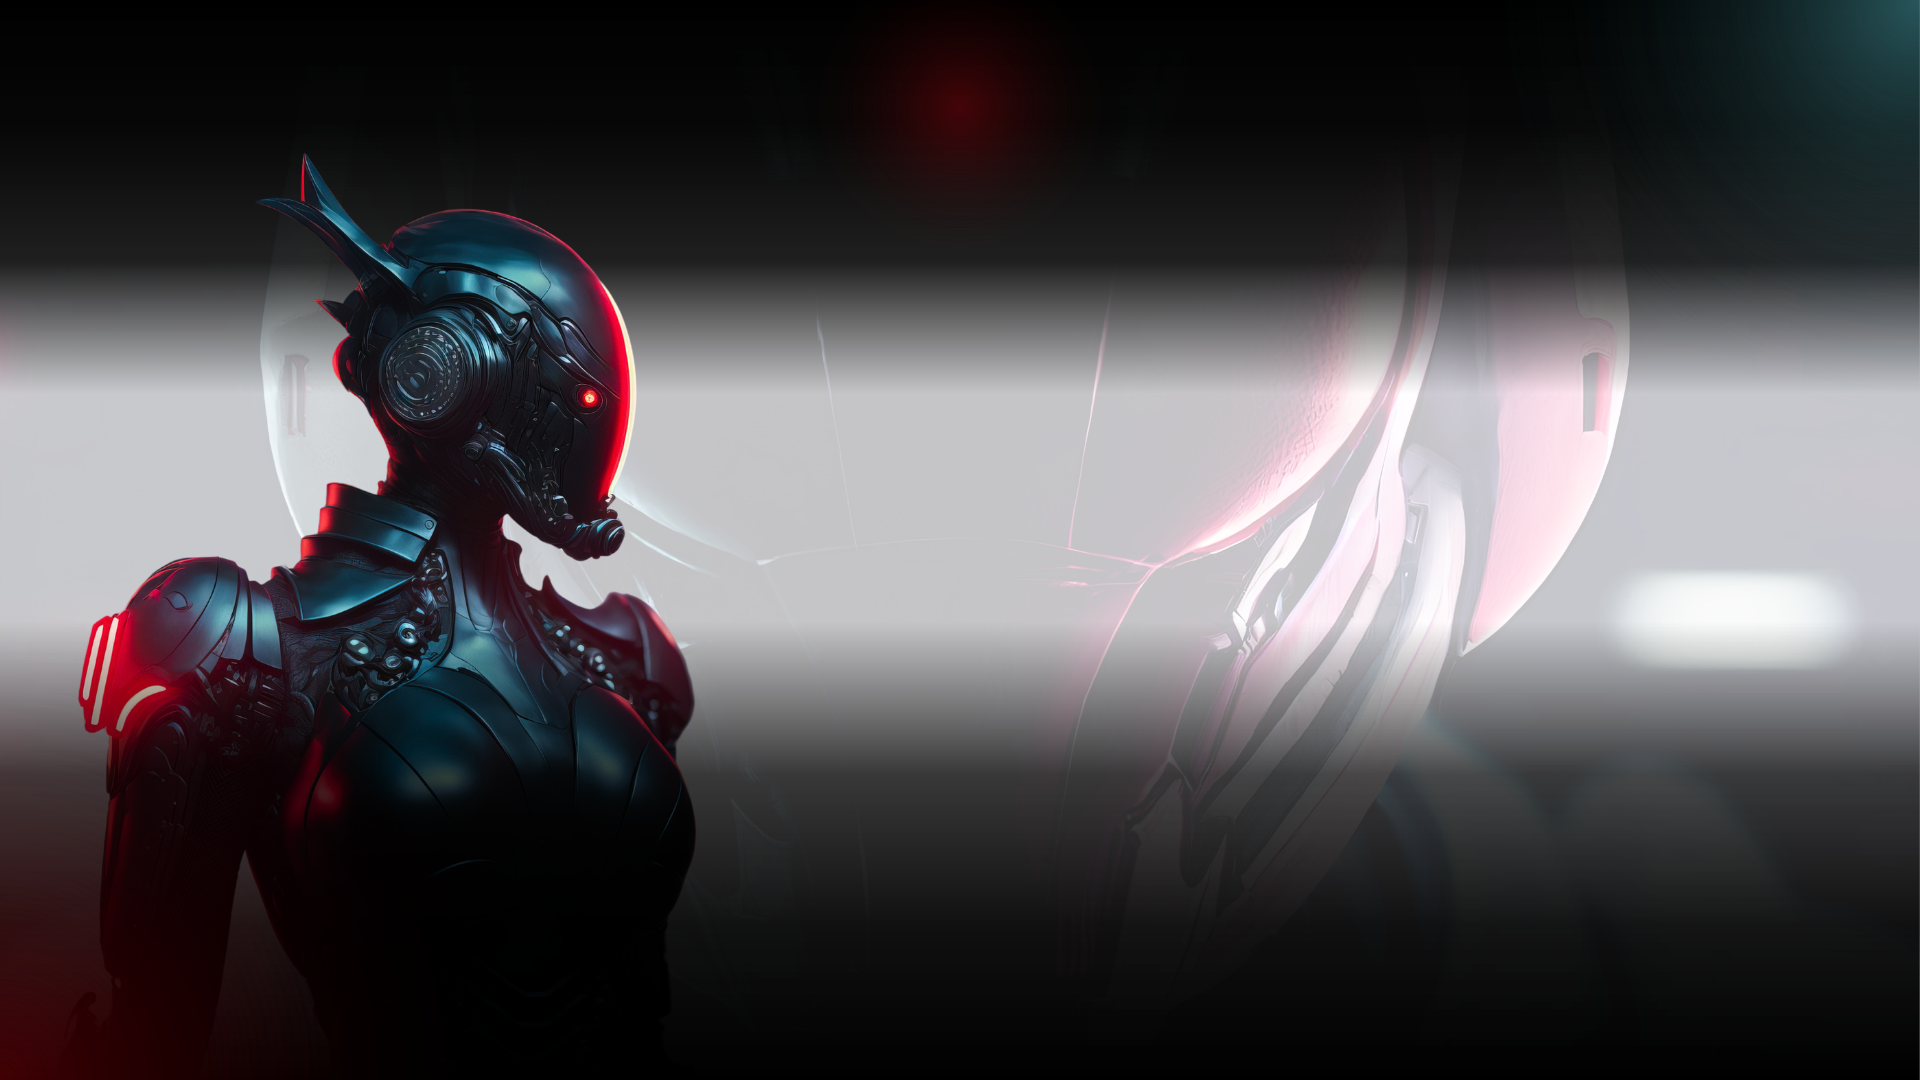
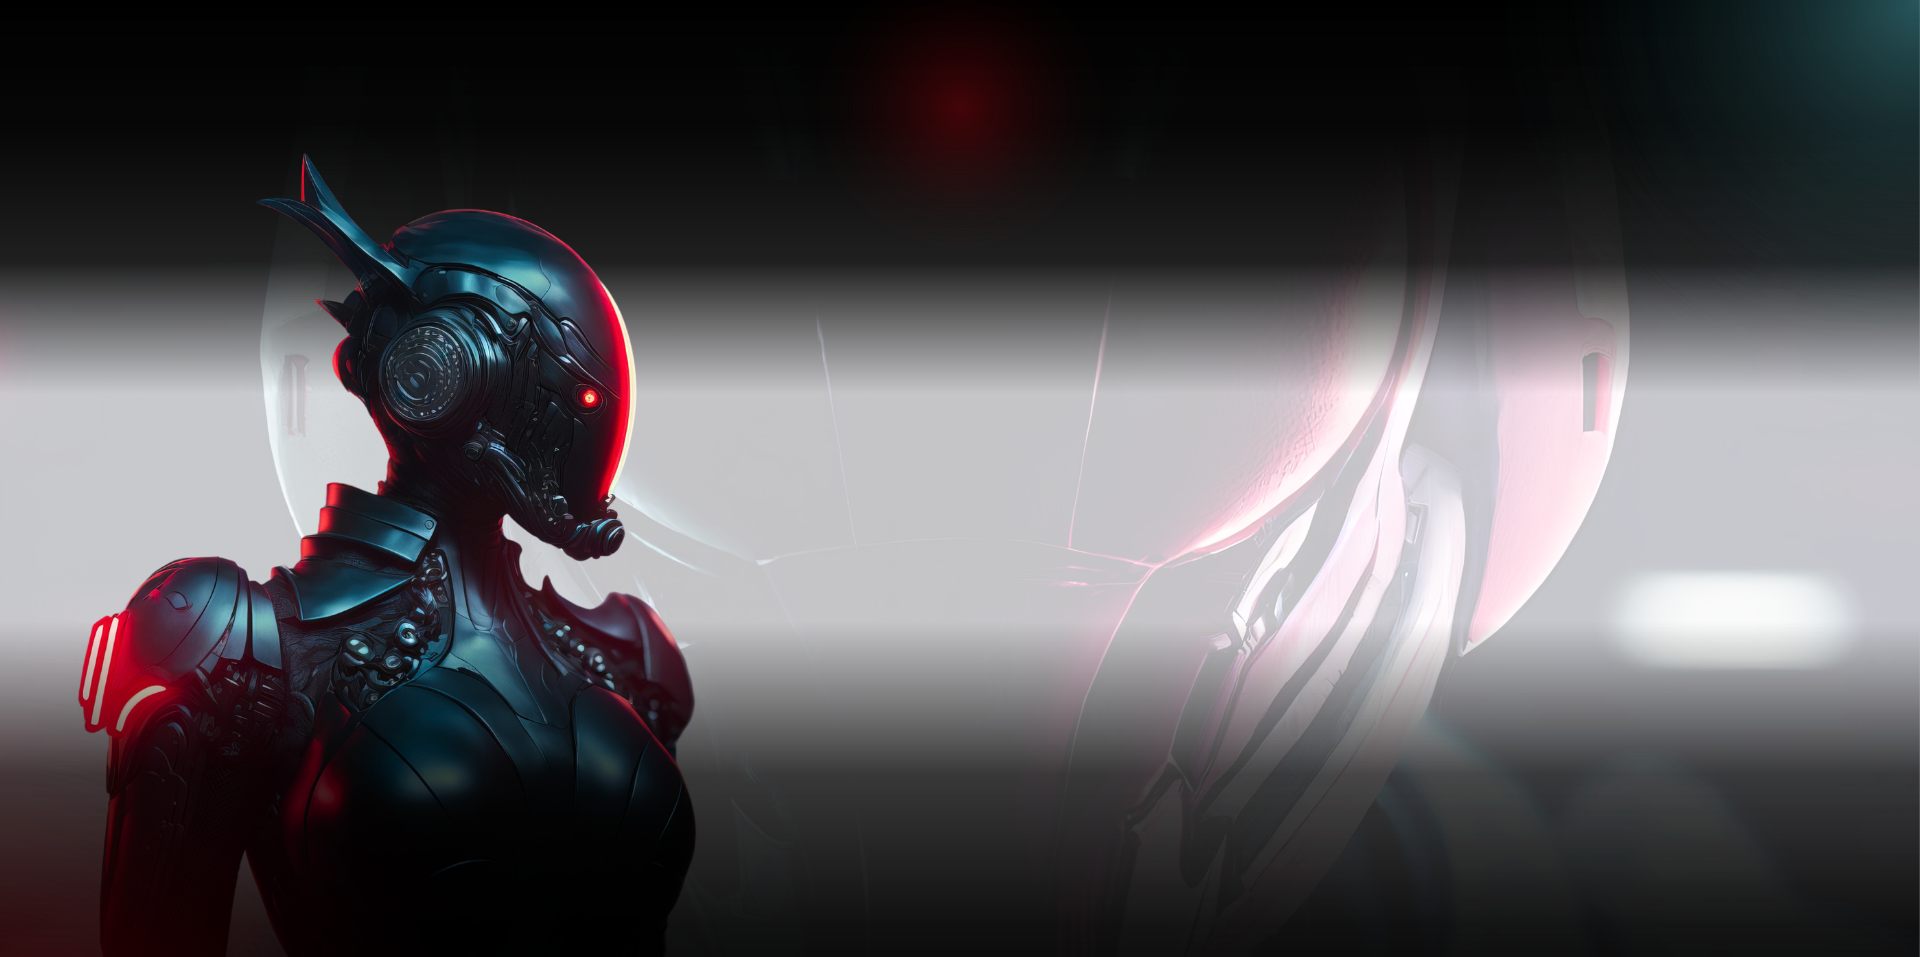
added register page

diff --git a/src/Pages/Register.jsx b/src/Pages/Register.jsx
@@ -1,0 +1,37 @@
+import React from 'react';
+import Container from '../Components/Container';
+import { Link } from 'react-router';
+
+const Register = () => {
+    return (
+        <Container>
+            <div className='flex justify-between items-center min-h-screen'>
+                <div className='flex-1'></div>
+                <div className='flex-1'>
+                    <fieldset className="fieldset rounded-box w-10/12 border border-purple-900 bg-[#00000088] p-4 py-8 ">
+                        <h2 className='text-3xl text-center font-bold'>Register</h2>
+
+                        <label className="label">Name</label>
+                        <input name='name' type="text" className="input w-full bg-transparent mb-3  " placeholder="Full Name" />
+
+                        <label className="label">Photo URL</label>
+                        <input name='photo' type="text" className="input w-full bg-transparent mb-3  " placeholder="Photo Url" />
+
+                        <label className="label">Email</label>
+                        <input name='email' type="email" className="input w-full bg-transparent mb-3  " placeholder="Email" />
+
+                        <label className="label">Password</label>
+                        <input name='password' type="password" className="input w-full bg-transparent mb-3  " placeholder="Password" />
+
+
+                        <button className="px-5 py-2.5 hover:bg-gradient-to-br hover:from-[#5107ff] hover:to-[#8026ff] cursor-pointer bg-gradient-to-br from-[#632EE3] to-[#9F62F2] transition flex items-center gap-2 text-white font-semibold rounded-box justify-center mt-5">Register</button>
+
+                        <p className='mt-3 font-semibold'>Already Have An Account ? Please <Link to='/auth/login' className='font-semibold text-purple-500 hover:border-b hover:border-b-purple-500'>Login</Link></p>
+                    </fieldset>
+                </div>
+            </div>
+        </Container>
+    );
+};
+
+export default Register;

diff --git a/src/Routes/router.jsx b/src/Routes/router.jsx
@@ -6,6 +6,7 @@ import Contact from "../Pages/Contact";
 import GameDetails from "../Components/GameDetails";
 import AuthLayout from "../Layouts/AuthLayout";
 import Login from "../Pages/Login";
+import Register from "../Pages/Register";
 
 export const router = createBrowserRouter([
     {
@@ -38,6 +39,10 @@ export const router = createBrowserRouter([
             {
                 path: '/auth/login',
                 Component: Login
+            },
+            {
+                path: '/auth/register',
+                Component: Register
             }
         ]
     }

diff --git a/src/Layouts/style.css b/src/Layouts/style.css
@@ -1,3 +1,4 @@
 .bg-img{
     background-image: url(../assets/login-page-bg.png);
+    background-size: cover;
 }
